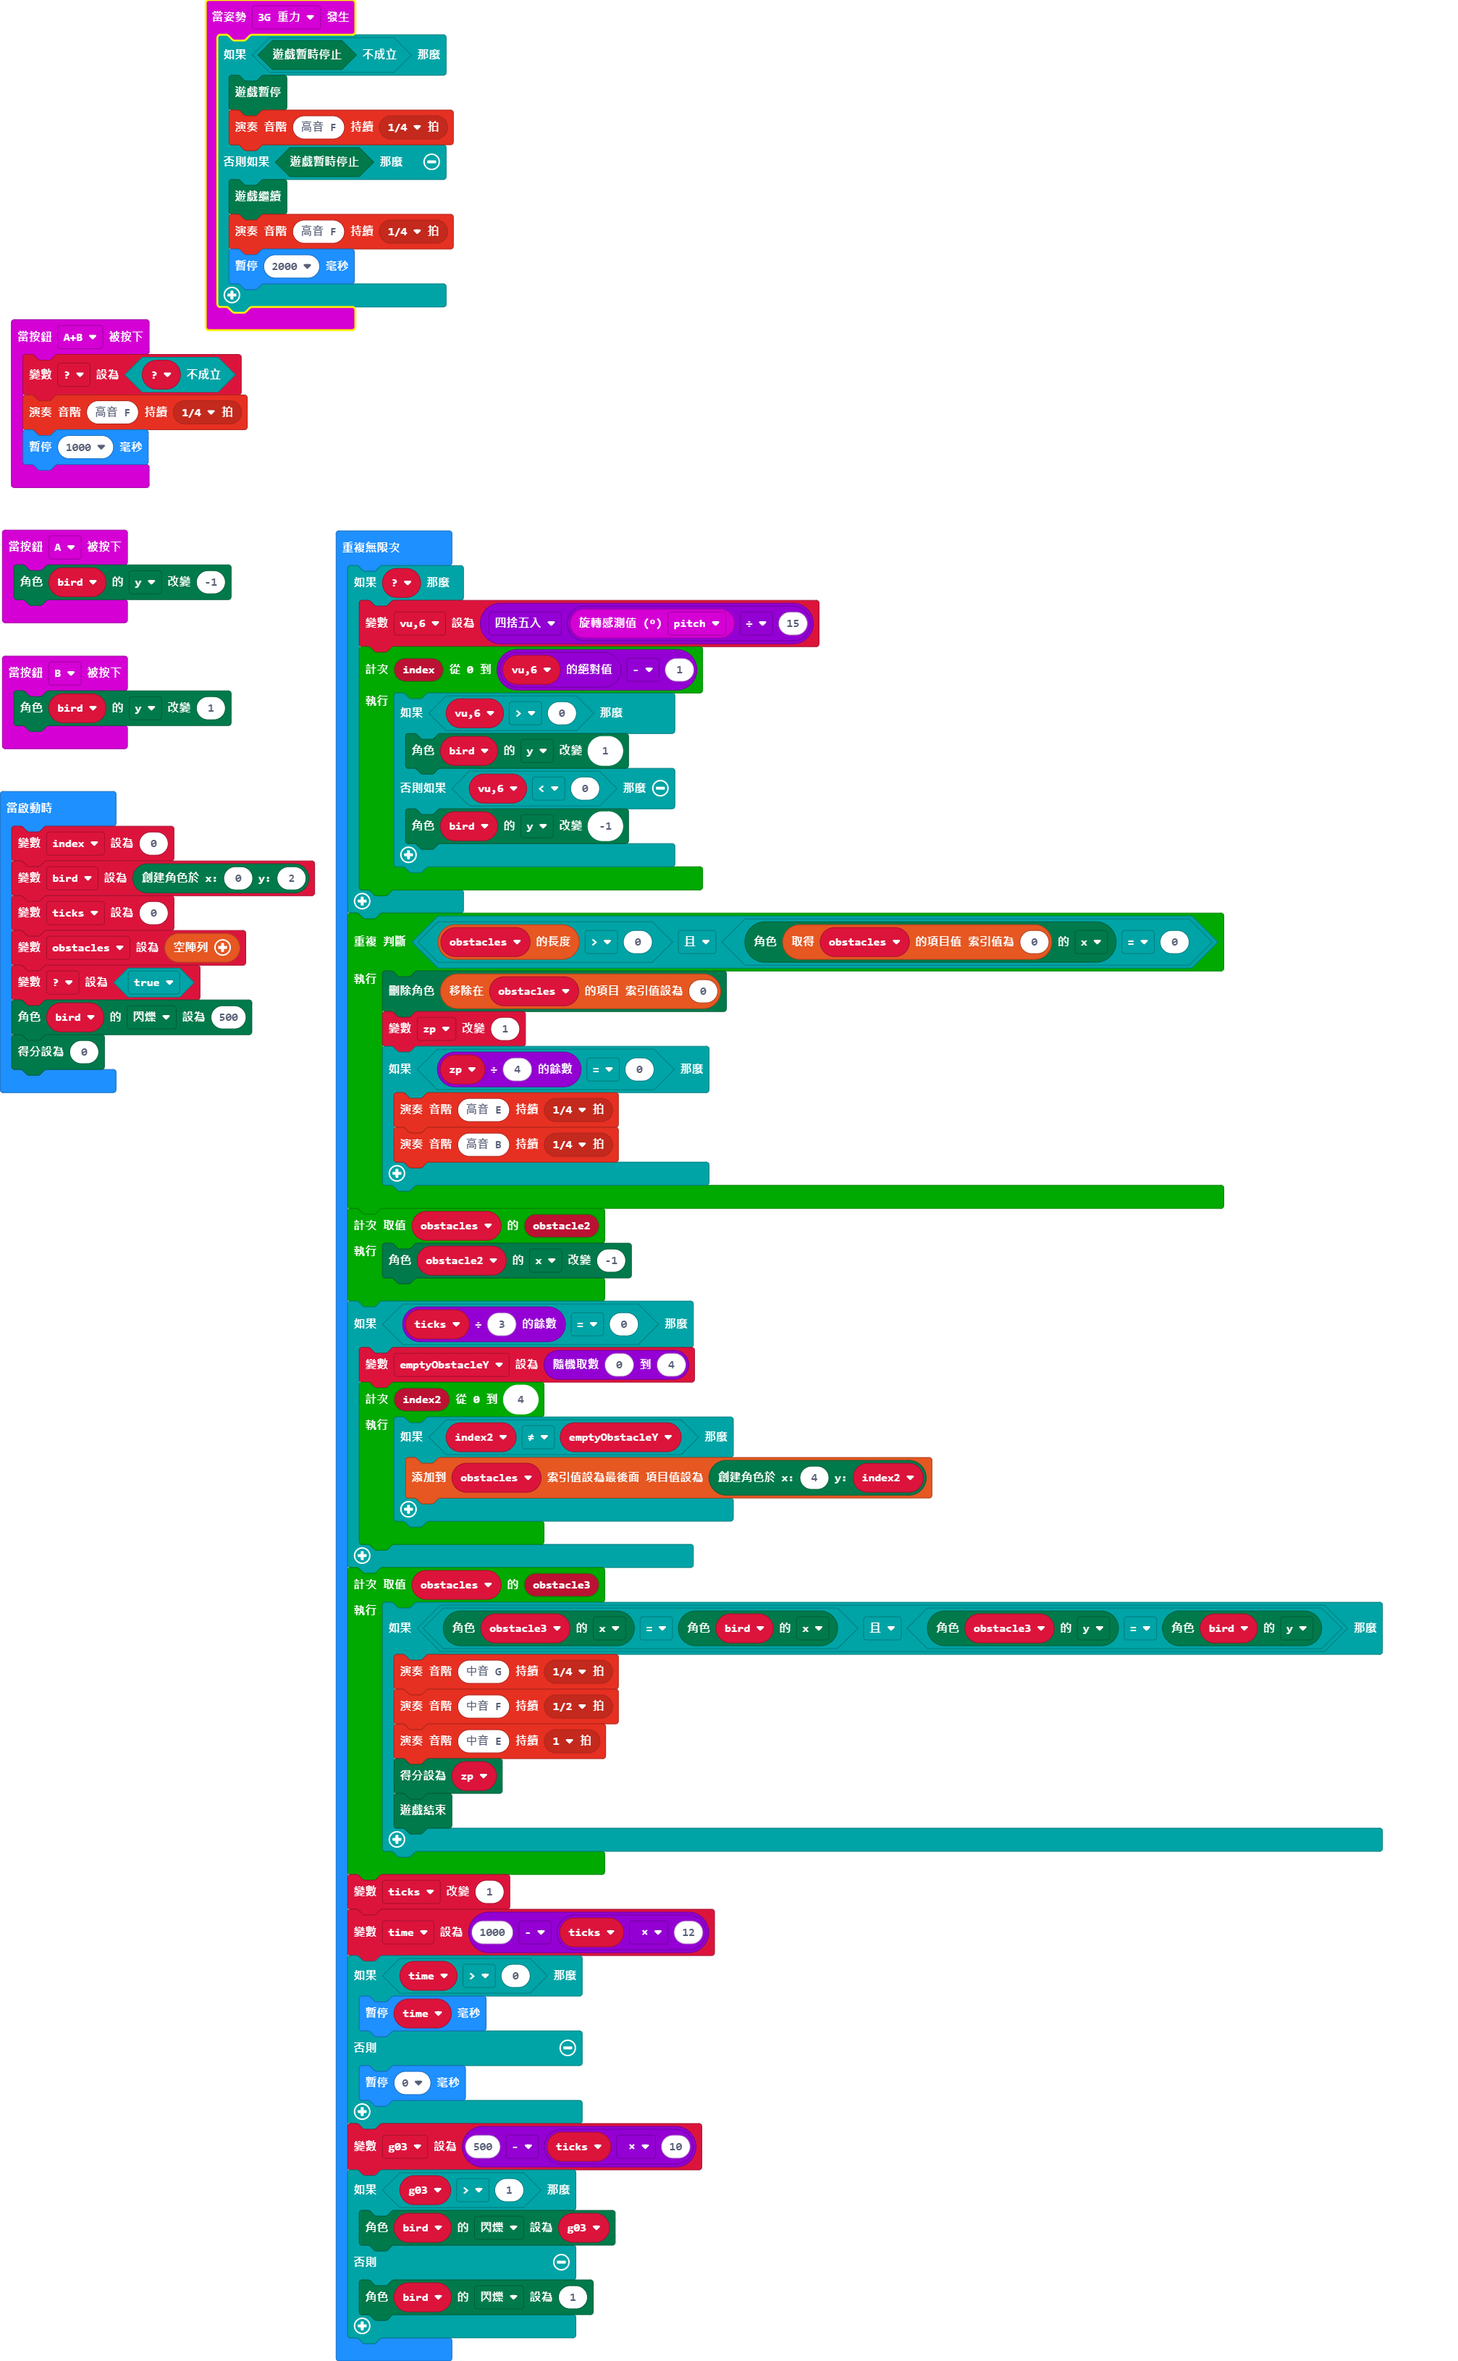
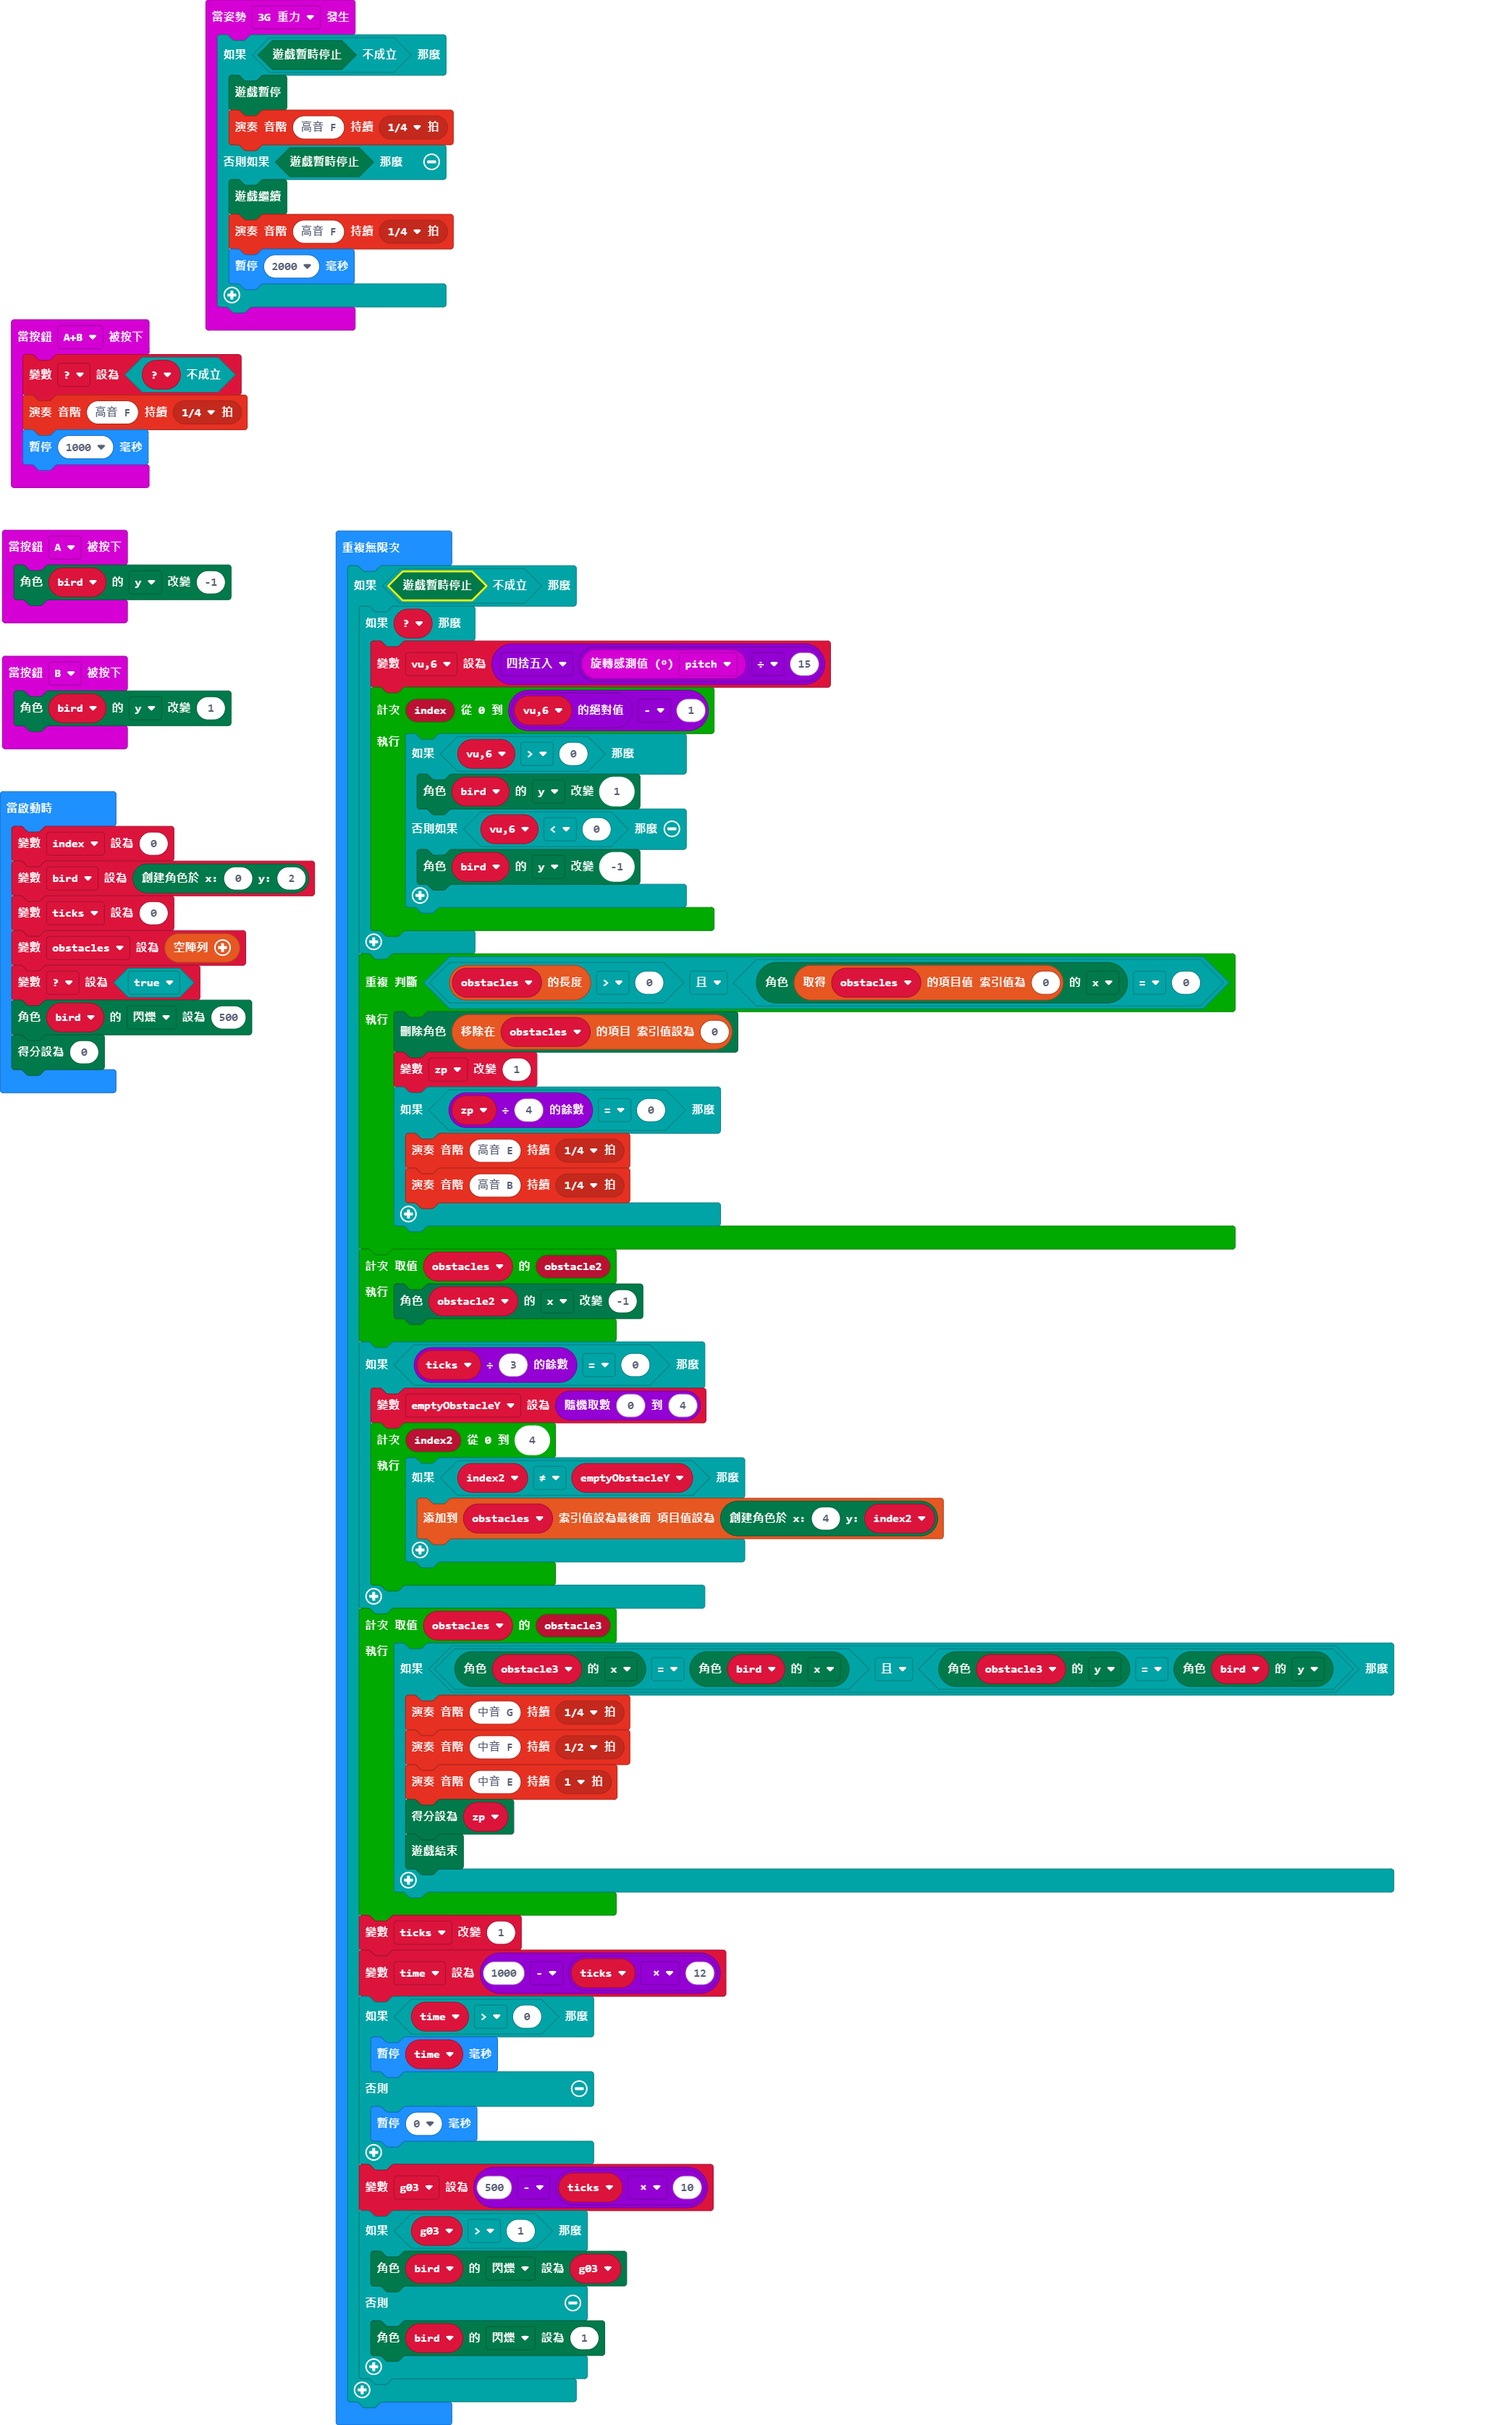
更新 main.ts, main.blocks

Changed region(s): [[0.0, 0.0, 0.9543, 1.0]]

diff --git a/main.ts b/main.ts
@@ -34,55 +34,57 @@ _ = true
 bird.set(LedSpriteProperty.Blink, 500)
 game.setScore(0)
 basic.forever(function () {
-    if (_) {
-        vu6 = Math.round(input.rotation(Rotation.Pitch) / 15)
-        for (let index = 0; index <= Math.abs(vu6) - 1; index++) {
-            if (vu6 > 0) {
-                bird.change(LedSpriteProperty.Y, 1)
-            } else if (vu6 < 0) {
-                bird.change(LedSpriteProperty.Y, -1)
+    if (!(game.isPaused())) {
+        if (_) {
+            vu6 = Math.round(input.rotation(Rotation.Pitch) / 15)
+            for (let index = 0; index <= Math.abs(vu6) - 1; index++) {
+                if (vu6 > 0) {
+                    bird.change(LedSpriteProperty.Y, 1)
+                } else if (vu6 < 0) {
+                    bird.change(LedSpriteProperty.Y, -1)
+                }
             }
         }
-    }
-    while (obstacles.length > 0 && obstacles[0].get(LedSpriteProperty.X) == 0) {
-        obstacles.removeAt(0).delete()
-        zp += 1
-        if (zp % 4 == 0) {
-            music.playTone(659, music.beat(BeatFraction.Quarter))
-            music.playTone(988, music.beat(BeatFraction.Quarter))
-        }
-    }
-    for (let obstacle2 of obstacles) {
-        obstacle2.change(LedSpriteProperty.X, -1)
-    }
-    if (ticks % 3 == 0) {
-        emptyObstacleY = randint(0, 4)
-        for (let index2 = 0; index2 <= 4; index2++) {
-            if (index2 != emptyObstacleY) {
-                obstacles.push(game.createSprite(4, index2))
+        while (obstacles.length > 0 && obstacles[0].get(LedSpriteProperty.X) == 0) {
+            obstacles.removeAt(0).delete()
+            zp += 1
+            if (zp % 4 == 0) {
+                music.playTone(659, music.beat(BeatFraction.Quarter))
+                music.playTone(988, music.beat(BeatFraction.Quarter))
             }
         }
-    }
-    for (let obstacle3 of obstacles) {
-        if (obstacle3.get(LedSpriteProperty.X) == bird.get(LedSpriteProperty.X) && obstacle3.get(LedSpriteProperty.Y) == bird.get(LedSpriteProperty.Y)) {
-            music.playTone(392, music.beat(BeatFraction.Quarter))
-            music.playTone(349, music.beat(BeatFraction.Half))
-            music.playTone(330, music.beat(BeatFraction.Whole))
-            game.setScore(zp)
-            game.gameOver()
+        for (let obstacle2 of obstacles) {
+            obstacle2.change(LedSpriteProperty.X, -1)
         }
-    }
-    ticks += 1
-    time = 1000 - ticks * 12
-    if (time > 0) {
-        basic.pause(time)
-    } else {
-        basic.pause(0)
-    }
-    g03 = 500 - ticks * 10
-    if (g03 > 1) {
-        bird.set(LedSpriteProperty.Blink, g03)
-    } else {
-        bird.set(LedSpriteProperty.Blink, 1)
+        if (ticks % 3 == 0) {
+            emptyObstacleY = randint(0, 4)
+            for (let index2 = 0; index2 <= 4; index2++) {
+                if (index2 != emptyObstacleY) {
+                    obstacles.push(game.createSprite(4, index2))
+                }
+            }
+        }
+        for (let obstacle3 of obstacles) {
+            if (obstacle3.get(LedSpriteProperty.X) == bird.get(LedSpriteProperty.X) && obstacle3.get(LedSpriteProperty.Y) == bird.get(LedSpriteProperty.Y)) {
+                music.playTone(392, music.beat(BeatFraction.Quarter))
+                music.playTone(349, music.beat(BeatFraction.Half))
+                music.playTone(330, music.beat(BeatFraction.Whole))
+                game.setScore(zp)
+                game.gameOver()
+            }
+        }
+        ticks += 1
+        time = 1000 - ticks * 12
+        if (time > 0) {
+            basic.pause(time)
+        } else {
+            basic.pause(0)
+        }
+        g03 = 500 - ticks * 10
+        if (g03 > 1) {
+            bird.set(LedSpriteProperty.Blink, g03)
+        } else {
+            bird.set(LedSpriteProperty.Blink, 1)
+        }
     }
 })
